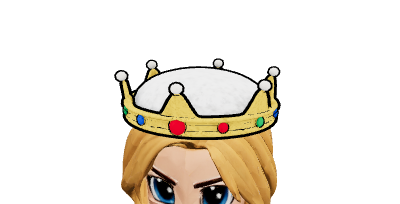
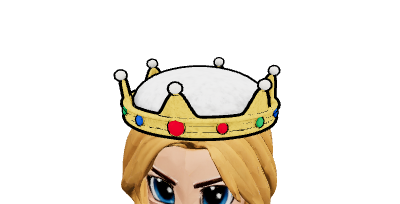
pfp-v362: V7 female crown fits over her hair, no hair through the sides [BANKSY t1920u]

diff --git a/js/pirateItems.js b/js/pirateItems.js
@@ -701,6 +701,21 @@ async function buildV5(p, def, opts, low, body, skel, names) {
   const cl = def.v5cloth ? { cloth: true, hex, col0: def.base ? colors3(geo.attributes.color) : null } : null;
   return { obj: m, decal, v5hide, flatten, ...cl };
 }
+// [v362] V7 female: widen the crown's rim (x / z about its centre, + a matching lift) to her hair's cross-section at the rim height
+// plus a margin, so the Meshy hair sits inside it instead of poking out the sides. Only ever grows; bind space, per-pirate copy.
+export const V7_HAT_GROW = { margin: 1.08, band: 0.02 };
+function v7GrowHat(geo, p) {
+  const P = geo.attributes.position; let ymin = 1e9; for (let i = 0; i < P.count; i++) ymin = Math.min(ymin, P.getY(i));
+  let a0 = 1e9, a1 = -1e9, b0 = 1e9, b1 = -1e9; for (let i = 0; i < P.count; i++) { if (P.getY(i) > ymin + 0.03) continue; a0 = Math.min(a0, P.getX(i)); a1 = Math.max(a1, P.getX(i)); b0 = Math.min(b0, P.getZ(i)); b1 = Math.max(b1, P.getZ(i)); }
+  let x0 = 1e9, x1 = -1e9, z0 = 1e9, z1 = -1e9;
+  for (const o of p.atlasMeshes || []) { const B = o.geometry.attributes.position; for (let i = 0; i < B.count; i++) { const y = B.getY(i); if (y < ymin - V7_HAT_GROW.band || y > ymin + 0.06) continue;
+    const x = B.getX(i), z = B.getZ(i); if (Math.abs(x) > 0.5 || Math.abs(z) > 0.5) continue; x0 = Math.min(x0, x); x1 = Math.max(x1, x); z0 = Math.min(z0, z); z1 = Math.max(z1, z); } }
+  if (!(x1 > x0) || !(a1 > a0)) return;
+  const sx = Math.max(1, (x1 - x0) * V7_HAT_GROW.margin / (a1 - a0)), sz = Math.max(1, (z1 - z0) * V7_HAT_GROW.margin / (b1 - b0)); if (sx === 1 && sz === 1) return;
+  const ca = (a0 + a1) / 2, cb = (b0 + b1) / 2, sy = (sx + sz) / 2;
+  for (let i = 0; i < P.count; i++) P.setXYZ(i, ca + (P.getX(i) - ca) * sx, ymin + (P.getY(i) - ymin) * sy, cb + (P.getZ(i) - cb) * sz);
+  P.needsUpdate = true; geo.computeBoundingSphere();
+}
 // [v123] BANKSY on Raul's crown: "Looks good, doesn't fit on head". Same design, re-seated per body: the ermine rim is scaled to the
 // head + hair cross-section at brow / ear height (bind space) and dropped there; the hair inside the crown is hidden (the velvet cap closes it).
 export const CROWN_FIT = { brow: 0.075, snug: 1.02, drop: 0.012 };
@@ -789,6 +804,7 @@ export async function equip(p, id, opts = {}) {
   const def = ITEM_BY_ID[id]; if (!def) throw new Error('unknown item ' + id);
   await p.ready; p.items ||= {}; p._eqTok ||= {}; const tok = (p._eqTok[def.slot] = {});
   const it = await build(p, def, opts);
+  if (p.v7 && p.female && def.id === 'crown') it.obj?.traverse?.((o) => { if (o.isMesh && o.geometry?.attributes.position) { o.geometry = o.geometry.clone(); v7GrowHat(o.geometry, p); } });   // [v362] BANKSY t1920u: her hair poked out the crown's sides
   if (p._eqTok[def.slot] !== tok) { drop(it); return null; }   // a newer equip / unequip on this slot won
   if (p.items[def.slot]) drop(p.items[def.slot]);
   p.items[def.slot] = { id, hide: def.hide, paint: def.paint, ...it, v5hide: def.v5 ? (it.v5hide || def.v5hide) : null }; applyHide(p); return it.obj;

diff --git a/sw.js b/sw.js
@@ -1,6 +1,6 @@
 // PUMPFUN PIRATES service worker: caches the app shell + pinned three.js CDN modules for offline play.
 // Bump VERSION whenever you change any file so phones pick up the update.
-const VERSION = 'pfp-v361'; // [v361] V7 female clothes-shop mannequin (live fitted figure, old baked form removed) + 69 female shop thumbnails rebaked on V7 (BANKSY t1919u); prev: [v360] Meshy gorillas (real size) + Meshy parrots on the V7 shoulder (BANKSY t1917u); prev: [v359] LIE IN BED / SIT AT DESK / CHANGE CLOTHES in ship hull + cabins (Timothy d6e9cbe, BANKSY t1918u); prev: [v358] V7 female = the raw Meshy model, rigged only (BANKSY t1900u/t1903u); prev: [v357] hotfix: island money-makers parse error (mid-line comment from a4c1aab); prev: [v356] FRIENDS: add / requests / list with online + where / JOIN their server / auto-join (BANKSY t1851u); prev: [v355] approved V7 male + single PumpFun pill, game rig/gear/recolors, fitted mannequins + previews; prev: [v353] island money-makers, [v352] KING OF THE HILL
+const VERSION = 'pfp-v362'; // [v362] V7 female crown widened to her hair (no hair poking out the sides) (BANKSY t1920u); prev: [v361] V7 female clothes-shop mannequin (live fitted figure, old baked form removed) + 69 female shop thumbnails rebaked on V7 (BANKSY t1919u); prev: [v360] Meshy gorillas (real size) + Meshy parrots on the V7 shoulder (BANKSY t1917u); prev: [v359] LIE IN BED / SIT AT DESK / CHANGE CLOTHES in ship hull + cabins (Timothy d6e9cbe, BANKSY t1918u); prev: [v358] V7 female = the raw Meshy model, rigged only (BANKSY t1900u/t1903u); prev: [v357] hotfix: island money-makers parse error (mid-line comment from a4c1aab); prev: [v356] FRIENDS: add / requests / list with online + where / JOIN their server / auto-join (BANKSY t1851u); prev: [v355] approved V7 male + single PumpFun pill, game rig/gear/recolors, fitted mannequins + previews; prev: [v353] island money-makers, [v352] KING OF THE HILL
 // prev: // [v178] Raul's shop items 2 (beards, earrings, gold teeth, boots, capes, pets, special pegs, ship flags + figureheads); [v177] Timothy's shared material library + gate junction; [v176] load fix, no SAFE HARBOR pill, moored ships ride higher
 const SHELL = [
   "./",
